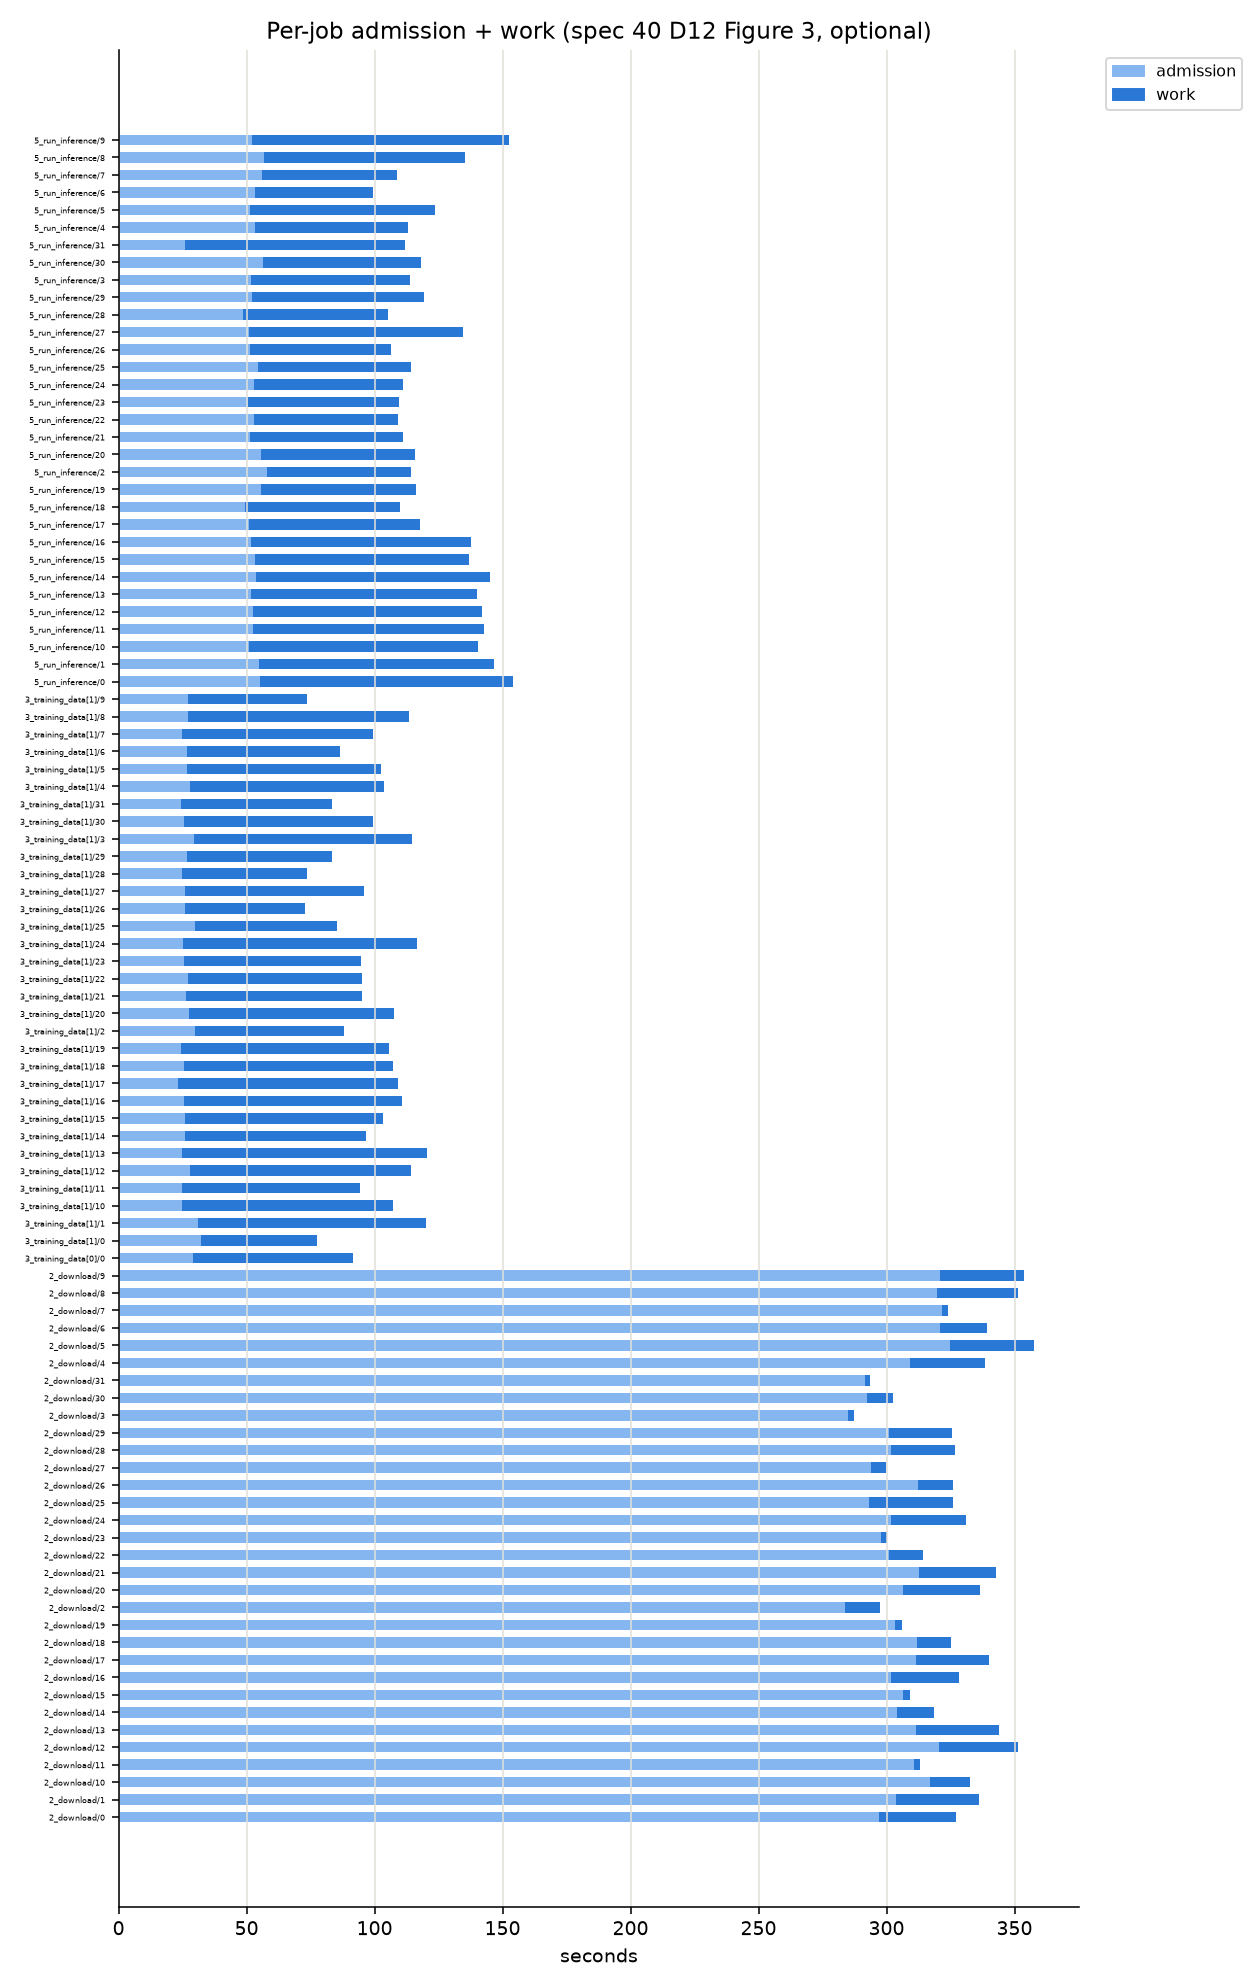
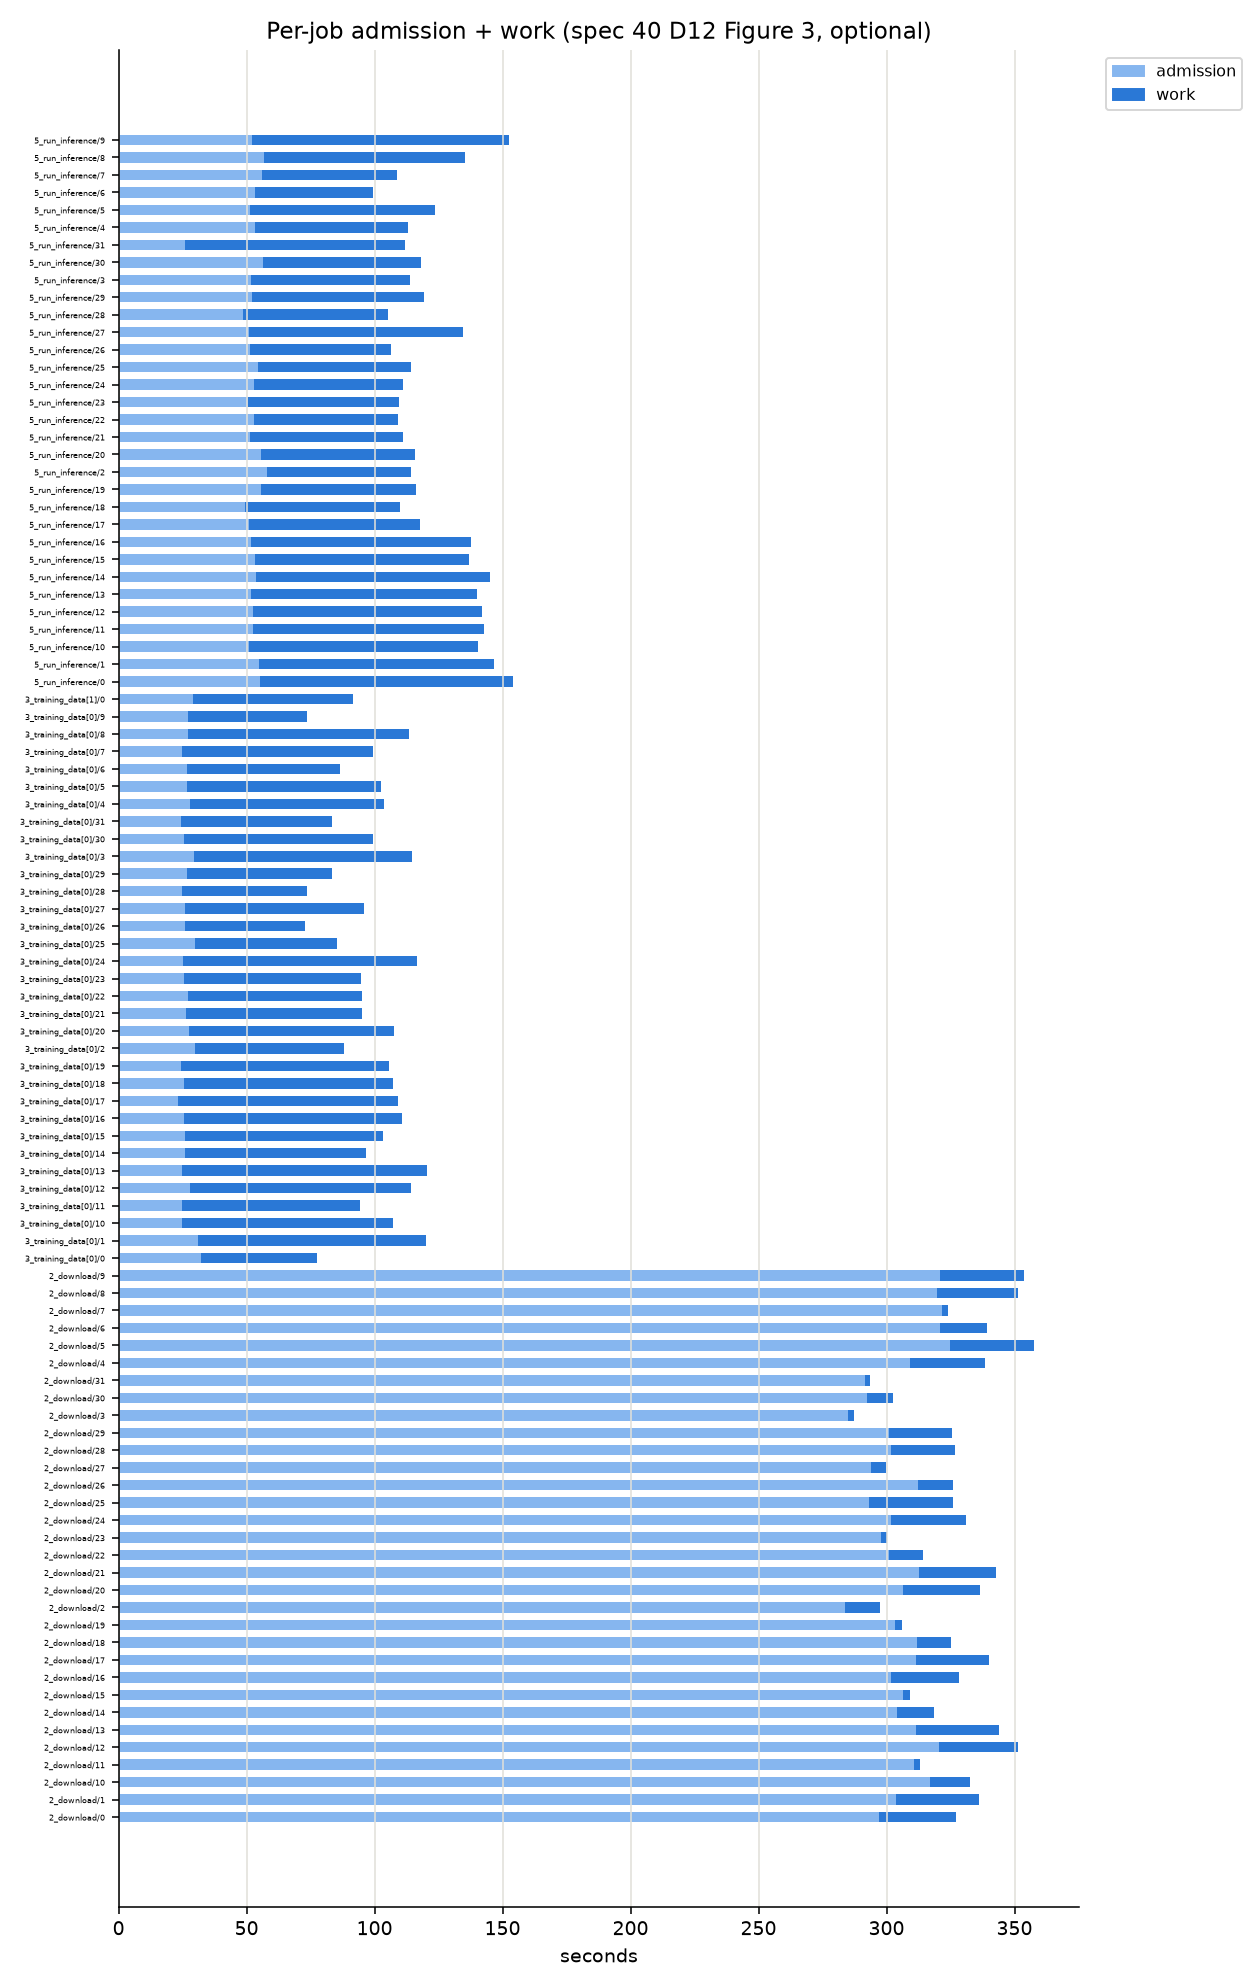
docs: PROGRESS checkpoint -- the cluster demo ran, P3 and P4 are validated
`demos/e2e_austria_aml.py` completed unattended: run 20260729T132222Z, 1127.7 s, 8/8
steps, 97 jobs, 213 MPC granules, 300 cells -> 300 COGs + STAC + merged map.

The milestone is not the demo script. ROADMAP had P3 (create-training-data-at-scale) and
P4 (inference at scale) BOTH marked "pending cluster validation" -- this run is that
validation. Mode B and Mode C are now proven end to end on real infrastructure in one
command.

Records what the run measured (job admission = 36 % of the wall, almost all one cold
start; 5 %/37 %/42 % node utilisation; TODO #60's 16.4x band stratification reproducing
exactly as predicted), the three user-decided spec 40 amendments (A1 MPC, A2
median_per_id, A3 the first_admission anchor), and the six defects the run surfaced --
every one found by running it, none by review.

Sets the next step: TODO #55, the docs refactor. Its own sequencing gate ("after a timed
e2e demo with stepwise time accounting and a report") is now met, and it says explicitly
that it is a spec of its own and to discuss before starting -- so the next session is an
Opus@high interview + spec, not implementation. Corpus sized for that conversation: 201
markdown files, 284,441 words, of which PROGRESS.md is 37.7k.

diff --git a/PROGRESS.md b/PROGRESS.md
@@ -2,7 +2,101 @@
 
 Resume anchor. Read this + `specs/00-overview.md` to pick up where we left off.
 
-_Last updated: 2026-07-28 (spec 40 IMPLEMENTED + REVIEWED — 6 defects found and fixed, tests green)_
+_Last updated: 2026-07-29 (⭐ THE CLUSTER DEMO RAN END TO END — P3 + P4 validated; next = TODO #55 docs refactor)_
+
+## ⭐ 2026-07-29 — THE DEMO RAN. P3 AND P4 ARE VALIDATED. → NEXT: TODO #55 (docs refactor)
+
+`demos/e2e_austria_aml.py` completed unattended on the `rise` AML cluster:
+**run `20260729T132222Z`, 1127.7 s (~18.8 min), 8/8 steps ok, 97 jobs, 213 MPC granules,
+300 grid cells → 300 output COGs + STAC + merged map.** `timings.json` +
+`timings.rederived.json` (see A3) are in `tests/outputs/demo_e2e_aml/20260729T132222Z/`
+(gitignored). All three D12 figures render.
+
+**The milestone is not the demo script — it is that ROADMAP's P3 and P4 both said
+"pending cluster validation" and this run IS that validation.** Mode B (laptop triggers
+cloud download→build→flatten, arrays come home) and Mode C (ROI inference fanned out over
+the cluster) are now proven end-to-end on real infrastructure, in one command.
+
+### What the run measured
+
+| | |
+|---|---|
+| **Job admission = 36 % of the whole run** | 403 s of 1128 s, almost all of it one cold start |
+| `2_download` | **286 s admission vs 84 s execution** — 71 % of the step is the cluster scaling 0→32 nodes |
+| warm dispatches | 26–55 s admission (build 32.3 s, flatten 29.0 s, inference 55.2 s) |
+| node utilisation | **5 %** (download, cold) · **42 %** (build) · **37 %** (inference) — TODO #60/#61 quantified |
+| **TODO #60 reproduces exactly** | 32 shards ÷ 4 bands, `32 % 4 == 0` ⇒ one band per shard ⇒ **16.4× imbalance** (2.0 s … 32.8 s) |
+| clock skew (VM) | **−0.88 s ± 0.03** vs ~8 s on the laptop — D10's driver-location record earning its keep |
+| inference vs local | 367.7 s vs 2683.5 s, but the local side is 2026-07-13 code — **not a clean comparison** (TODO #62) |
+
+### Spec 40 amendments (all recorded IN the spec, all user-decided)
+
+- **A1 — `2_download` sources from MPC, not CDSE.** D13 contradicted D11 in the same spec:
+  CDSE dispatches exactly ONE job (spec 37 D1), so the download leg measured no scale-out
+  at all. Also drops the credential dance and the 30-day quota risk. `max_tiles` 207 → 250
+  (MPC found 213).
+- **A2 — `aggregate="median_per_id"` on BOTH demos.** The modelling unit, not a size trick:
+  labels are field-level, so per-pixel training leaks a field's own pixels across the split.
+  `demos/e2e_austria.py` changed to match ⇒ **its published step-3/4 numbers are now stale**
+  and TODO #62's local re-run is a **prerequisite**, not a nicety (spec 40 §9).
+- **A3 — `first_admission` anchors on the FIRST submission.** The old anchor produced
+  `first_admission = −5.0` on a healthy dispatch: submitting 32 jobs takes ~40 s and the
+  early ones are admitted *during* it, so submission and admission overlap and cannot be
+  adjacent legs. It also destroyed D11's stated meaning for a negative (clock skew). New
+  `submission_span_seconds` reports the span *outside* the additive split. `CHANGES.md`
+  entry; **pre-2026-07-29 `timings.json` are not comparable on those two fields** (sums are).
+
+### Defects found by running it (none by review — all cost or nearly cost a run)
+
+1. **TODO #47 CLOSED** — `gpd.read_file(<abfss url>)` reports "No such file or directory"
+   for a file that exists (GDAL has no `abfss://` driver). Killed `3_training_data`. New
+   **`fs.read_geo`**, the one shared reader; all four sites use it. `run_inference`'s ROI
+   re-tiling would have hit two more sites two steps later.
+2. **A stale AML image silently voids the run.** The four D2 stamps are written by the `fsd`
+   *inside the image*; `fsd-aml-env:4` predated spec 40, so a complete 25-min run came back
+   with `job_admission_seconds: null` on all 97 jobs — correct science, void measurement.
+   Now gated after the FIRST dispatch (`_assert_dispatch_telemetry_complete`).
+3. **`[dev,azure,aml]` is not enough** — `mpc`/`grid`/`model-example` are also required;
+   died at `4_train_bundle` on `joblib`. Preflight now checks every driver-side import.
+4. **`total_seconds` was the last process's wall** — a resumed run reported 640.7 s for
+   1470.0 s of steps. Now the sum of the steps + `process_wall_seconds` + `resumed`.
+5. **Dispatch telemetry was ordered by run_id, which is not execution order** —
+   `create_training_data` mints its id before the build dispatches but uses it for the
+   flatten, so `3_training_data[0]` was the *reduce* and `[1]` the *fan-out*, backwards.
+   Now sorted on `wall.t_start`. This mislabelled every figure the plotter draws.
+6. **The gantt was silently dropped** — `max_rows=80` vs a real 97-job run, and both skip
+   causes printed "no data". Cap 120 + `gantt_skip_reason`.
+
+Also: preflight now prints per-check timings (`check_seconds`); `fs.modified` added (the
+clock-skew probe read `fs.ls`, which returns bare strings, so skew always read 0.0);
+RECIPES gained the **both-Environments rebuild** recipe (the node's fsd comes from the
+image — `git pull` on the driver changes nothing) with the `az` gotchas that cost a build.
+
+**Tests 451 → 520 / 2 skipped**, ruff clean. `main` == `origin/main`.
+
+### → NEXT: TODO #55 — the docs refactor (its gate is now met)
+
+#55's own sequencing rule was *"do this AFTER a timed e2e demo … with stepwise time
+accounting and a report"*. That gate is met. It also says **"this is a spec of its own when
+taken up … discuss before starting"** — so the next session is an **Opus@high
+interview + spec**, not implementation.
+
+**The corpus, measured 2026-07-29: 201 markdown files, 284,441 words** (specs 91.8k,
+runbooks 48.6k, `PROGRESS.md` **37.7k**, TODO 16.9k, CHANGES 13.0k, demos 12.6k). Target
+per #55: **(1)** one chronological "story since inception" — the forks taken and dropped and
+the measurements that decided them; **(2)** ≤~5 docs on the **C4 model** (c4model.com) as a
+newcomer's front door. The living registers stay as the audit trail.
+
+Open scoping questions #55 names explicitly: which registers fold in vs stay; the file
+count; and whether it lives in `fsd/docs/` or replaces the top-level READMEs.
+
+**Deferred, not forgotten:** TODO #62 (local re-run — now a prerequisite for ANY
+local-vs-cluster claim, A2), spec 40 §7 (rewrite `E2E_AUSTRIA_AML.md` around this run),
+TODO #59/#60/#61 (the overhead work — note admission at 403 s dwarfs #60's ~30 s, so the
+honest headline lever is cluster warm-up policy, not sharding), and the rslearn Plan B/C
+decision (`spike/rslearn`, still open).
+
+## SPEC 40 REVIEWED (Opus@high, 2026-07-28) — six defects found, all fixed
 
 ## ⭐ SPEC 40 REVIEWED (Opus@high, 2026-07-28) — six defects found, all fixed
 
